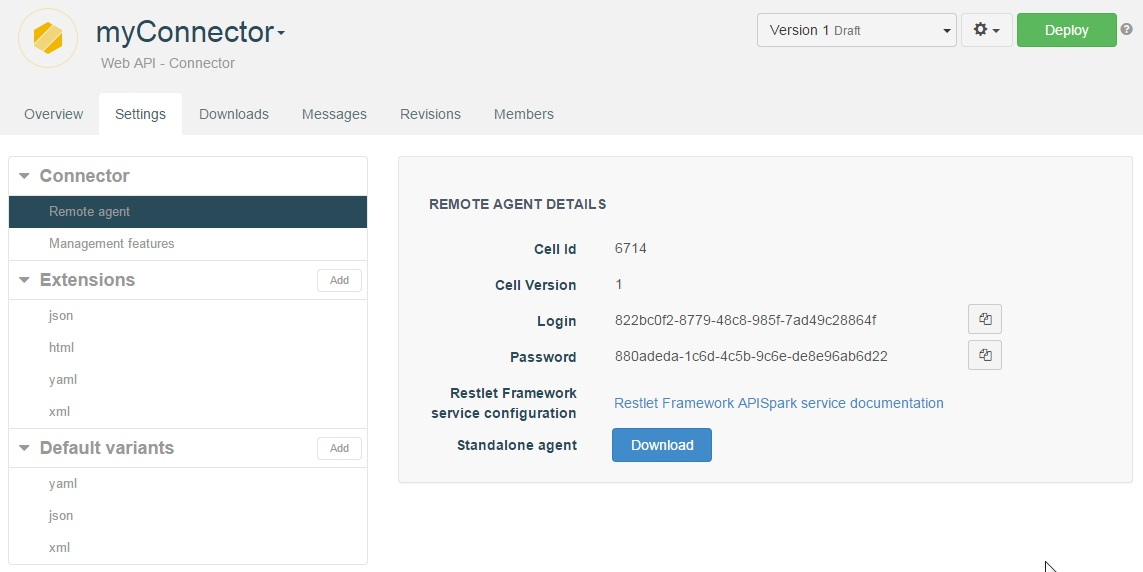
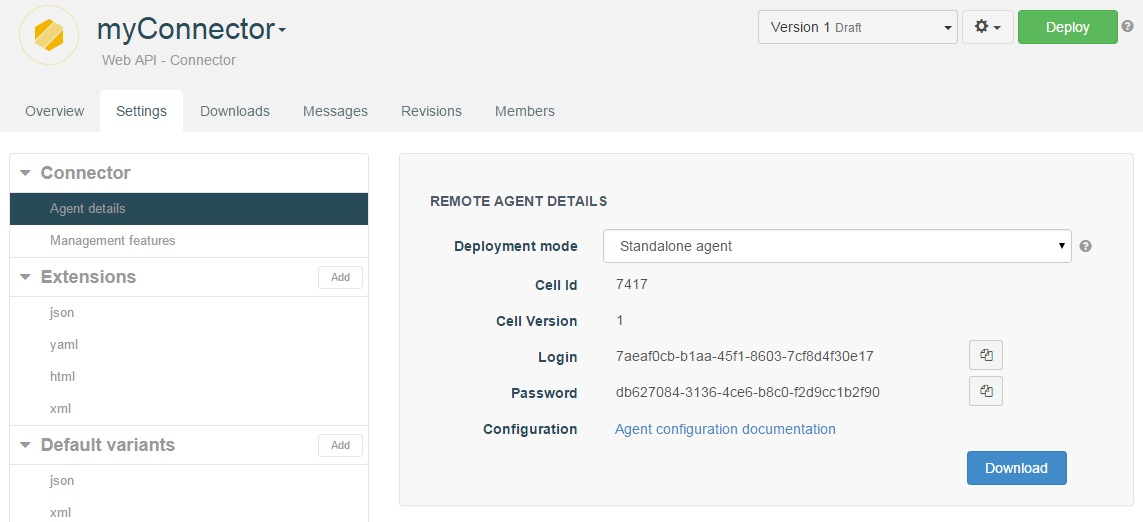
AS_Added "hosted agent" connector tutorial

diff --git a/modules/com.restlet/tech-doc/apispark/tutorials/04_manage-api.md b/modules/com.restlet/tech-doc/apispark/tutorials/04_manage-api.md
@@ -4,33 +4,47 @@ APISpark provides a tool to manage an existing web API hosted outside of APISpar
 
 In this scenario, we will add authenticated access to an existing web API via the APISpark tool. If you do not have a running web API, you can use our sample API hosted on APISpark.
 
-# 1. Create a web API Connector
+You have two options:
+- **[hosted agent](hosted)**
+You can either create a connector with an agent hosted directly on APISpark or ;
+- **[standalone agent](standalone)**  
+You can install the agent on your own infrastructure to avoid possible lag issues.
+
+
+
+# <a name="hosted"></a>Create a connector with an agent hosted on APISpark
+
+## 1. Create a web API Connector
 
 If you have not already done so, <a href="
 https://apispark.restlet.com/signin" target="_blank">sign in</a> to your APISpark account and open your **Dashboard**.
 
 Create a new Connector. Click on **+ Web API**, select the "Connector" **Type** and enter the **Name** "myConnector".
 
-![Create a Web API Connector](images/create-connector.jpg "Create a Web API Connector")
+>**Note:** The **Domain** must be unique, you may need to modify it if it is not available.
+
+![Create a Web API Connector](images/create-hosted-connector.jpg "Create a Web API Connector")
 
 Click on the **Add** button to create the new web API Connector. You will be taken to the new web API Connector's **Overview** page.
 
-In the **Endpoints** section, click on the **Add** button to add an Endpoint to your Connector.
+## 2. Configure the Connector
 
-![Add an endpoint](images/add-an-endpoint.jpg "Add an endpoint")
+### 2.1. Define a target endpoint
 
-# 2. Configure the authentication feature
+Click on the **Settings** tab.
+In the **Connector** section, select **Agent details**.
+Enter a **Target endpoint** (here: http://rsreferenceapi.apispark.net/v1) and click **Save**.
 
-## 2.1. Enable the authentication feature
+![Define a Target endpoint](images/target-endpoint.jpg "Define a Target endpoint")
 
-First of all, you will want to enable the authentication feature of the Connector you just created.  
-To do so, click on the **Settings** tab.  
-In the **Connector** section, select **Management features**.  
+### 2.2. Enable the authentication feature
+
+Still in the **Connector** section, select **Management features**.  
 Select the **Authentication** checkbox in the central panel and click **Save**.
 
 ![Enable authentication](images/enable-authentication.jpg "Enable authentication")
 
-## 2.2. Add members to your web API
+### 2.3. Add members to your web API
 
 To add new consumers to your API, create new members from the **Members** tab.
 
@@ -38,13 +52,13 @@ To add new consumers to your API, create new members from the **Members** tab.
 
 Members of your web API Connector will be able to consume it once it has been deployed. A set of credentials will be auto-generated for each of them.
 
+You can now **Deploy** your web API Connector.
+
 Each member of the Connector can use his/her credentials to consume the API. To get yours, go to the **Overview** page of the Connector and open the Endpoint you want to invoke.
 
 ![Connector credentials](images/connector-credentials.jpg "Connector credentials")
 
-You can now **Deploy** your web API Connector.
-
-# 3. Import your web API definition
+## 3. Import your web API definition
 
 APISpark needs your web API contract to be able to access it.
 
@@ -60,17 +74,96 @@ You can see the content of your API in the **Resources** and **Representations**
 
 ![Your API definition](images/your-api-definition.jpg "Your API definition")
 
-# 4. Plug the agent to the web API
+## 4. Invoke the web API
 
-## 4.1. Launch your web API
+Now that your environment is all set, you can call your API with Swagger UI for example.
+
+From the **Overview** tab, select your Endpoint from the left panel and click the **swagger** button.
+
+![Click the swagger button](images/connector-swagger-button.jpg "Click the swagger button")
+
+A new tab opens with a test interface. Note that your credentials are filled in automatically.
+
+![your API](images/connector-swagger-ui.jpg "your API")
+
+Your API is now protected with authentication.
+
+Congratulations on completing this tutorial! If you have questions or suggestions, feel free to contact the <a href="http://support.restlet.com/" target="_blank">Help Desk</a>.
+
+
+# <a name="standalone"></a>Create a connector with a standalone agent
+
+
+## 1. Create a web API Connector
+
+If you have not already done so, <a href="
+https://apispark.restlet.com/signin" target="_blank">sign in</a> to your APISpark account and open your **Dashboard**.
+
+Create a new Connector. Click on **+ Web API**, select the "Connector" **Type**, select the "Standalone agent" **Deployment mode** and enter the **Name** "myConnector".
+
+![Create a Web API Connector](images/create-standalone-connector.jpg "Create a Web API Connector")
+
+Click on the **Add** button to create the new web API Connector. You will be taken to the new web API Connector's **Overview** page.
+
+In the **Endpoints** section, click on the **Add** button to add an Endpoint to your Connector.
+
+![Add an endpoint](images/add-an-endpoint-standalone.jpg "Add an endpoint")
+
+## 2. Configure the authentication feature
+
+### 2.1. Enable the authentication feature
+
+First of all, you will want to enable the authentication feature of the Connector you just created.  
+To do so, click on the **Settings** tab.  
+In the **Connector** section, select **Management features**.  
+Select the **Authentication** checkbox in the central panel and click **Save**.
+
+![Enable authentication](images/enable-authentication.jpg "Enable authentication")
+
+### 2.2. Add members to your web API
+
+To add new consumers to your API, create new members from the **Members** tab.
+
+![Add members](images/add-members.jpg "Add members")
+
+Members of your web API Connector will be able to consume it once it has been deployed. A set of credentials will be auto-generated for each of them.
+
+You can now **Deploy** your web API Connector.
+
+Each member of the Connector can use his/her credentials to consume the API. To get yours, go to the **Overview** page of the Connector and open the Endpoint you want to invoke.
+
+![Connector credentials](images/connector-credentials.jpg "Connector credentials")
+
+
+## 3. Import your web API definition
+
+APISpark needs your web API contract to be able to access it.
+
+Click on the action button on top right of your screen and select Import definition.
+
+![Import definition](images/import-definition.jpg "Import definition")
+
+In the **Import definition** wizard, enter your API definition (for this tutorial, enter the following address: https://apispark.restlet.com/api/apis/5100/versions/1/swagger) and click the **Import** button.
+
+![Import definition wizard](images/import-def-wizard.jpg "Import definition wizard")
+
+You can see the content of your API in the **Resources** and **Representations** sections.
+
+![Your API definition](images/your-api-definition.jpg "Your API definition")
+
+
+
+## 4. Plug the agent to the web API
+
+### 4.1. Launch your web API
 
 If you have a web API running, make sure it is running. Otherwise just make GET calls on this sample web API:
 
 [https://rsreferenceapi.apispark.net/v1/contacts/](https://rsreferenceapi.apispark.net/v1/contacts/)
 
-## 4.2. Launch the agent
+### 4.2. Launch the agent
 
-The agent is available for download from the **Remote agent** page: click on the **Settings** tab and select **Remote agent** from the **Connector** section.
+The agent is available for download from the **Agent details** page: click on the **Settings** tab and select **Agent details** from the **Connector** section.
 
 ![Download the agent](images/download-agent.jpg "Download the agent")
 
@@ -82,7 +175,7 @@ Once your agent is configured, launch it with the following command line:
 java -jar -DapiSparkServiceConfig=/path/to/your/agent.properties apispark-agent.jar
 ```
 
-# 5. Invoke the web API
+## 5. Invoke the web API
 
 Now that your environment is all set, you can call your API with Swagger UI for example.
 
